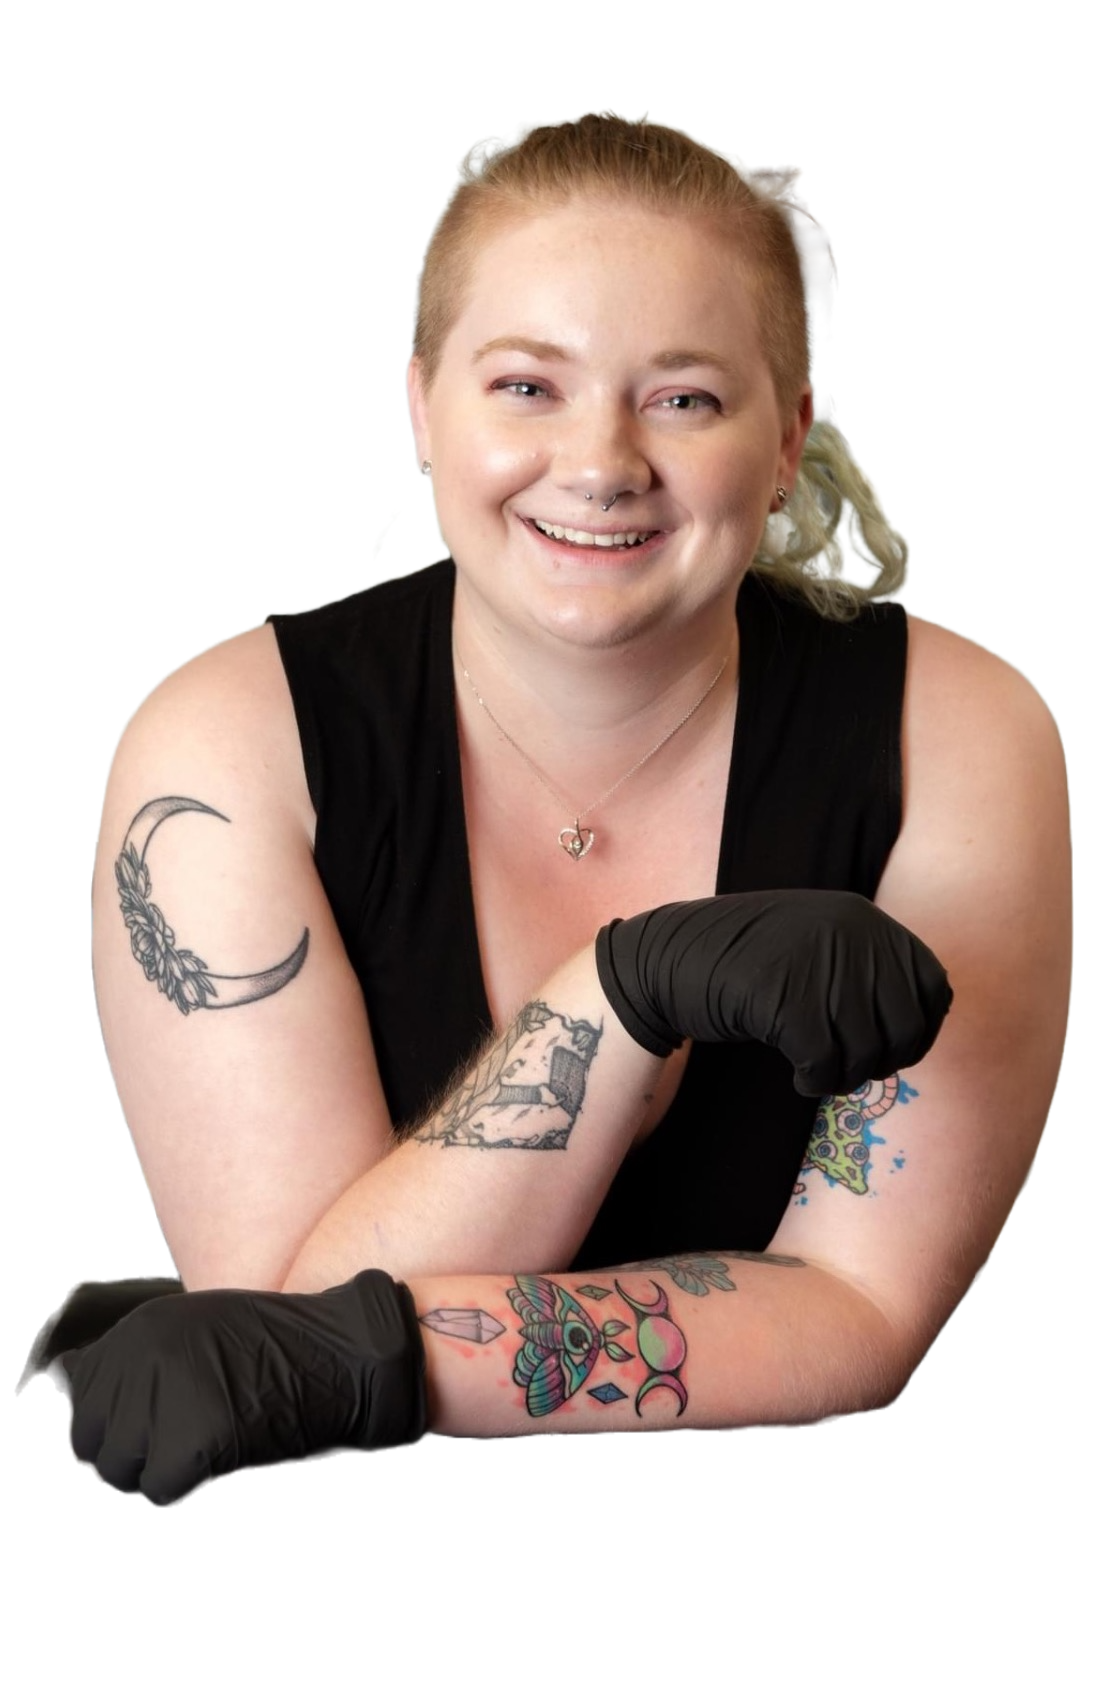
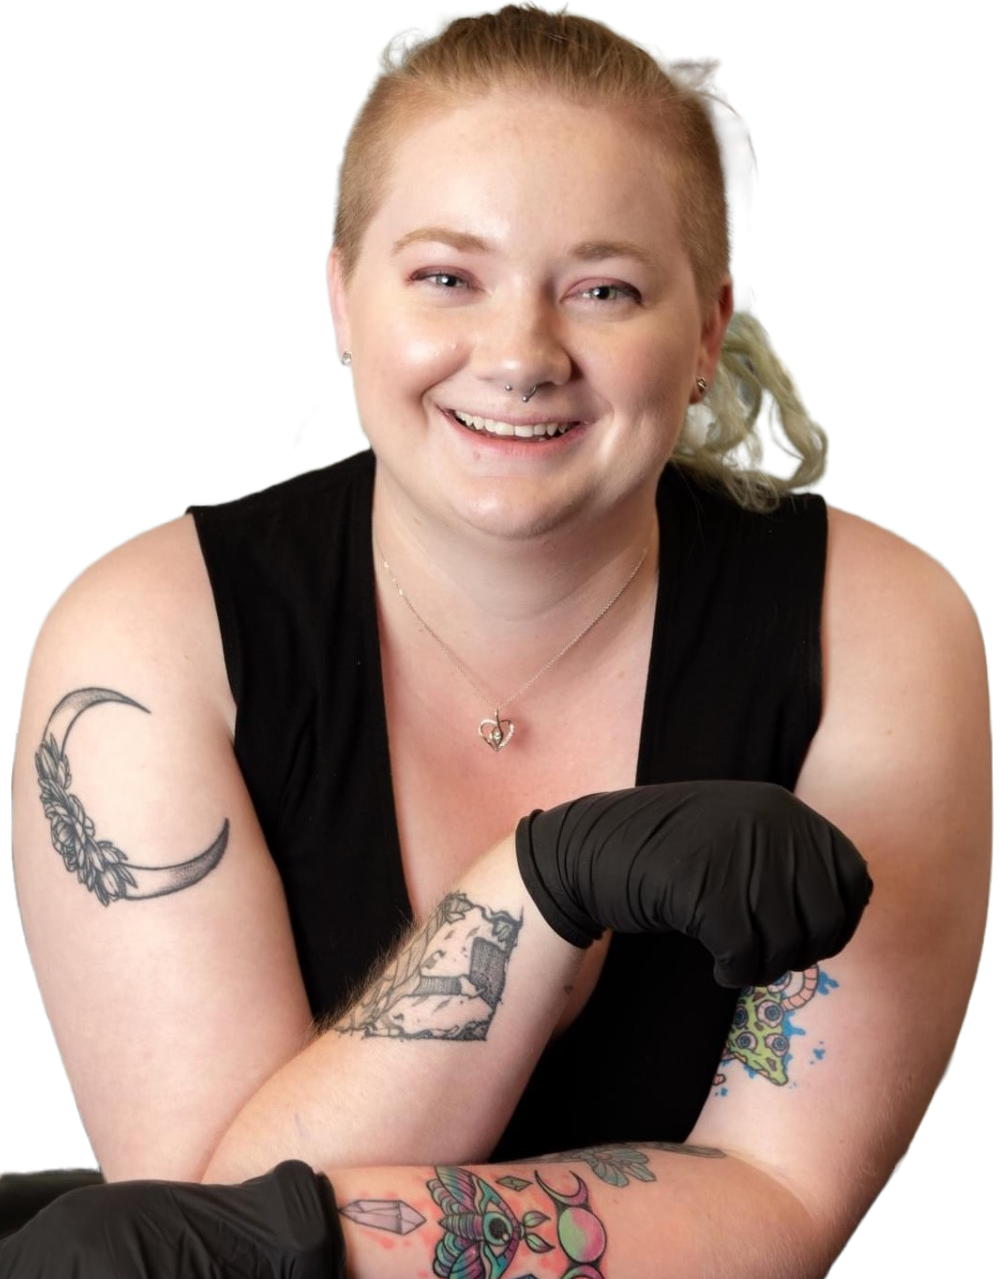
finished styling about for now, still need media queries and housekeeping

diff --git a/src/components/Main.jsx b/src/components/Main.jsx
@@ -1,6 +1,6 @@
 import React, { useState, useEffect } from "react";
 import { Routes, Route } from "react-router-dom";
-import { Navbar, Home, AboutMe, MyWork, Contact, Login, Admin, Register, EditInfo, LightboxTest, Footer, NewAbout } from "./";
+import { Navbar, Home, AboutMe, MyWork, Contact, Login, Admin, Register, EditInfo, LightboxTest, Footer, NewAbout, Loading } from "./";
 import { getAllUsersAPI } from "./api-adapter";
 
 // import myWorkStyling from "./styling/myWorkStyling.css";
@@ -43,6 +43,7 @@ const Main = () => {
             <Route exact path="admin/edit-my-info" element={< EditInfo token={ token } username={ username } />} />
             <Route exact path="lightbox-test" element={ <LightboxTest/> } />
             <Route exact path="about-test" element={<NewAbout/>} />
+            <Route exact path="loading" element={<Loading/>} />
         </Routes>
         <Footer/>
         </div>

diff --git a/src/components/styling/aboutMeStyling.css b/src/components/styling/aboutMeStyling.css
@@ -81,7 +81,7 @@ dark blue - #3845AD
 #about-col{
     justify-content: flex-start;
     position: relative;
-    top: -305px;
+    top: -250px;
     /* border: solid 3px #F65035; */
 
 }
@@ -98,11 +98,11 @@ dark blue - #3845AD
 
 #jo-pic{
     width: 400px;
-    height: 600px;
-    object-fit: cover;
+    height: 440px;
+    object-fit: contain;
     position: relative;
-    top: -600px;
-    right: -85px;
+    top: -640px;
+    right: -120px;
     z-index: 10;
 }
 
@@ -127,16 +127,16 @@ dark blue - #3845AD
 
 #about-col-content{
     width: 50%;
-    /* border: 3px dashed #F65035; */
-    padding: 0.5rem;
+    padding: 1rem;
     font-family: 'Sen', sans-serif;
+    border-left: solid 1px #3845AD;
 
 }
 
 #about-col-content > h1{
     font-weight: 600;
     animation: jackInTheBox;
-    animation-duration: 2s;
+    animation-duration: 3s;
     color: #3845AD;
     border-bottom: dashed 3px #F65035;
 }

diff --git a/src/components/Loading.jsx b/src/components/Loading.jsx
@@ -1,0 +1,33 @@
+import React from "react";
+
+import loadingStyling from "./styling/loadingStyling.css";
+
+const Loading = () => {
+  return (
+    <div id="loading-screen">
+      <svg
+        width="155"
+        height="155"
+        viewBox="0 0 155 155"
+        fill="none"
+        xmlns="http://www.w3.org/2000/svg"
+      >
+        <circle
+          cx="77.5"
+          cy="77.5"
+          r="60"
+          stroke="currentColor"
+          stroke-width="35"
+        />
+        <path
+          d="M94.68 20.012A59.998 59.998 0 0 1 137.5 77.5"
+          stroke="currentColor"
+          stroke-width="35"
+        />
+      </svg>
+      loading joann's work
+    </div>
+  );
+};
+
+export default Loading;

diff --git a/src/components/styling/loadingStyling.css b/src/components/styling/loadingStyling.css
@@ -1,0 +1,26 @@
+/*
+
+color palette:
+off-white - #f7f0df
+dark blush - #EA9688
+light pink - #F9CDCC
+orange - #F65035
+dark green - #27513E
+light green - #C2F1DC
+yellow - #FFCD64
+light blue - #868FD6
+lighter blue - #d9ddfd
+dark blue - #3845AD
+
+*/
+
+#loading-screen{
+    margin: 0;
+    display: flex;
+    flex-direction: column;
+    align-items: center;
+    justify-content: center;
+    width: 100vw;
+    height: 100vh;
+    background-color: #d9ddfd;
+}

diff --git a/src/components/index.js b/src/components/index.js
@@ -6,6 +6,7 @@ export { default as EditInfo } from "./EditInfo";
 export { default as Footer } from "./Footer";
 export { default as Home } from "./Home";
 export { default as LightboxTest } from "./LightboxTest";
+export { default as Loading } from "./Loading";
 export { default as Login } from "./Login";
 export { default as Main } from "./Main";
 export { default as MyWork } from "./MyWork";

diff --git a/src/components/styling/footerStyling.css b/src/components/styling/footerStyling.css
@@ -3,4 +3,7 @@ footer{
     margin: 0;
     padding: 3rem;
     border-top: 1px solid #3845AD;
+    position: sticky;
+    top: 0;
+    left: 0;
 }
